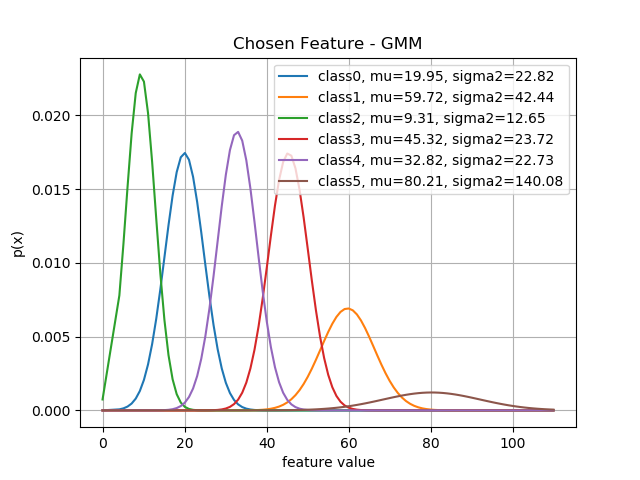
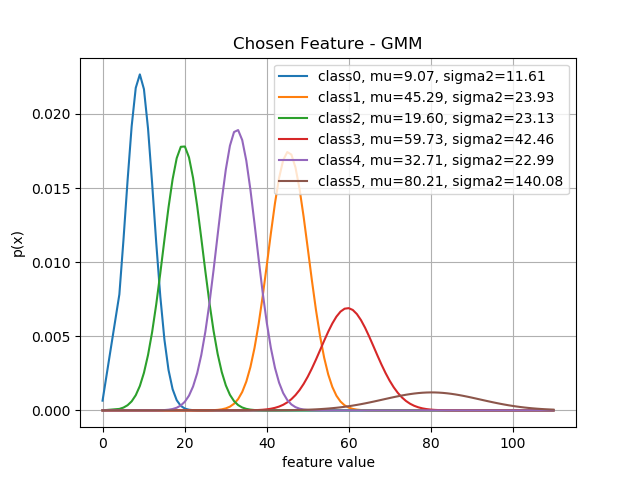
Time: 2019-09-22 12:16:54

diff --git a/4_2_1_randomlySample.py b/4_2_1_randomlySample.py
@@ -6,7 +6,7 @@
 @Github: https://github.com/isLouisHsu
 @E-mail: is.louishsu@foxmail.com
 @Date: 2019-09-20 11:07:51
-@LastEditTime: 2019-09-22 10:13:52
+@LastEditTime: 2019-09-22 12:15:25
 @Update: 
 '''
 import os
@@ -59,7 +59,42 @@ for i in range(len(featLandmarks) + 1):
     subSequence = sequences[index]
     subFeature  = features [index]
 
-    ## 直方图统计，各速度的直方图
+    # ---------------------------------------------------------------------------------
+    ## 统计该速度区间，峰值速度与平均加速度（包含正负）的联合概率分布
+    featIdx0 = 0; featIdx1 = 7
+    n0, bins0 = np.histogram(subFeature[:, featIdx0], bins=3)
+    n1, bins1 = np.histogram(subFeature[:, featIdx1], bins=3)
+    gap0 = bins0[1] - bins0[0]; gap1 = bins1[1] - bins1[0]
+
+    pdf = np.zeros((n0.shape[0], n1.shape[0]))
+    for j in range(n0.shape[0]):
+        for k in range(n1.shape[0]):
+            ### 峰值速度
+            _idx1 = subFeature[:, featIdx0] > bins0[j]
+            _idx2 = subFeature[:, featIdx0] < bins0[j + 1]
+            idx1  = np.bitwise_and(_idx1, _idx2)
+            ### 平均加速度
+            _idx1 = subFeature[:, featIdx1] > bins1[k]
+            _idx2 = subFeature[:, featIdx1] < bins1[k + 1]
+            idx2  = np.bitwise_and(_idx1, _idx2)
+            ### 统计数目
+            idx   = np.bitwise_and(idx1, idx2)
+            pdf[j, k] = idx.sum()
+    pdf = pdf / pdf.sum()
+
+    plt.figure()
+    plt.imshow(pdf, cmap=plt.cm.hot)
+    plt.title("PDF")
+    plt.xlabel("max speed")
+    plt.ylabel("max accelerate")
+    plt.colorbar()
+    # plt.xticks(bins0, rotation=45)
+    # plt.yticks(bins1)
+    plt.savefig("images/4_2_1_pdf_%d.png" % i)
+    # plt.show()
+
+    # ---------------------------------------------------------------------------------
+    ## 直方图统计，运行时长的直方图
     n, bins = np.histogram(subFeature[:, 3], bins=70)
     freq = n / n.sum()                                                      # 速度频率分布
     cumFreq = np.array([np.sum(freq[:i+1]) for i in range(freq.shape[0])])  # 累积频率
@@ -82,6 +117,7 @@ for i in range(len(featLandmarks) + 1):
     subFeature  = subFeature [index]
     p = p[index]
 
+    # ---------------------------------------------------------------------------------
     ## 多次采样
     subChosenSequences = []; subChosenFeatures = []
     for j in range(sampleTime):
@@ -90,35 +126,80 @@ for i in range(len(featLandmarks) + 1):
         subFeature_  = subFeature [index]
         subChosenSequences += [subSequence_]
         subChosenFeatures  += [subFeature_ ]
-    
-    ## 滤除序列和长度之和偏离Tk较多的序列
+    subChosenSequences = np.array(subChosenSequences)
+    subChosenFeatures  = np.array(subChosenFeatures )
 
-    pass
+    ## 滤除序列运行时间长度之和偏离Tk较多的序列
+    lengths = np.array(list(map(lambda x: x[:, 3].sum(), subChosenFeatures)))
+    t = 0.2
+    index = np.bitwise_and(lengths > Tk*(1 - t), lengths < Tk*(1 + t))
+    subChosenSequences = subChosenSequences[index]
+    subChosenFeatures  = subChosenFeatures [index]
+
+    # ---------------------------------------------------------------------------------
+    ## 卡方检验
+    K = []
+    n_combine = subChosenSequences.shape[0]
+    for j in range(n_combine):
+    
+        cnt = np.zeros_like(pdf, dtype=np.int)
+        for  k in range(Nk):
+            _f = subChosenFeatures[j, k]
+            a, b = _f[featIdx0], _f[featIdx1]
+            ia = int((a - bins0[0]) // gap0)
+            ib = int((b - bins1[0]) // gap1)
+            ia = ia - 1 if a == bins0[-1] else ia
+            ib = ib - 1 if b == bins1[-1] else ib
+            cnt[ia, ib] += 1
+        
+        k = ((cnt - Nk * pdf)**2 / ((Nk * pdf)**2 + np.finfo(np.float).eps))
+        K += [k.sum()]
+    K = np.array(K)
+
+    index = np.argsort(K)
+    K = K[index]
+    subChosenSequences = subChosenSequences[index]
+    subChosenFeatures = subChosenFeatures[index]
+    
+    ## 选择卡方值最小的
+    n_seq = subChosenSequences.shape[0]
+    size = n_seq if n_seq < 10 else 10
+    chosenSequences += [subChosenSequences[0: size]]
+    chosenFeatures  += [subChosenFeatures [0: size]]
 
 # ------------------------------------------------------------------------
-## 组合序列
-gap = 10
-combineSequences = []
-for i in range(len(chosenFeatures)):
-    chosenSequence = chosenSequences[i]
-    chosenFeature  = chosenFeatures[i]
-    for j in range(chosenFeature.shape[0]):
-        startIdx = int(chosenFeature[j][4] - chosenFeature[j][3])
-        combineSequence  = chosenSequence[j][startIdx - 1:]
-        combineSequences += [np.r_[np.zeros(gap), combineSequence]]
-combineSequences = np.array(combineSequences)
-lengths = np.array(list(map(lambda x: x.shape[0], combineSequences)))
-# index   = np.argsort(lengths)
-# lengths = lengths[index]; combineSequences = combineSequences[index]
-combineSequences = np.concatenate(combineSequences)
-np.save("output/4_2_2_combineSequences.npy", [combineSequences, lengths, gap])
+for k in range(size):
+    ## 组合序列
+    gap = 10
+    combineSequences = []; combineFeatures = []
+    for i in range(len(chosenFeatures)):
+        chosenSequence = chosenSequences[i][k]
+        chosenFeature  = chosenFeatures [i][k]
+        for j in range(chosenFeature.shape[0]):
+            startIdx = int(chosenFeature[j][4] - chosenFeature[j][3])
+            combineSequence = chosenSequence[j][startIdx - 1:]
+            combineFeature  = chosenFeature[j]
+            combineSequences += [combineSequence]
+            combineFeatures  += [combineFeature ]
 
-fig = plt.figure(figsize=(12, 6))
-plt.title("Output Sequence")
-plt.xlabel("time(s)")
-plt.ylabel("speed(km/h)")
-plt.plot(combineSequences)
-plt.grid()
-plt.savefig("images/4_2_1_output_sequence_cluster%d.png" % n_clusters)
+    ## 根据峰值速度排序
+    combineSequences = np.array(combineSequences)
+    combineFeatures  = np.array(combineFeatures )
+    index = np.argsort(combineFeatures[:, 0])
+    combineSequences = combineSequences[index]
+    combineFeatures  = combineFeatures [index]
+    np.save("output/4_2_2_combineSequences_%d.npy" % k, combineSequences)
+    np.save("output/4_2_2_combineFeatures_%d.npy"  % k, combineFeatures )
 
-plt.show()
+    ## 显示序列
+    combineSequences = list(map(lambda x: np.r_[np.zeros(10), x], combineSequences))
+    combineSequences = np.concatenate(combineSequences)
+    fig = plt.figure(figsize=(12, 6))
+    plt.title("Output Sequence")
+    plt.xlabel("time(s)")
+    plt.ylabel("speed(km/h)")
+    plt.plot(combineSequences)
+    plt.grid()
+    plt.savefig("images/4_2_1_output_sequence_cluster%d_%d.png" % (n_clusters, k))
+
+    # plt.show()

diff --git a/1_preprocessing.py b/1_preprocessing.py
@@ -6,7 +6,7 @@
 @Github: https://github.com/isLouisHsu
 @E-mail: is.louishsu@foxmail.com
 @Date: 2019-09-19 11:01:14
-@LastEditTime: 2019-09-22 09:36:50
+@LastEditTime: 2019-09-22 10:34:21
 @Update: 
 '''
 import os
@@ -102,7 +102,7 @@ def calFeaturesOfSequence(speedSeq, timeSeq, speedThresh=IDLETHRESH, maxIdle=180
     index = np.r_[1, isIdle[1:] - isIdle[:-1]]          # 负跳变(-1)：从怠速起步
     idxStart = np.where(index == -1)[0]                 # 起步时间
     if idxStart.shape[0] == 0: 
-        return np.zeros(15)
+        return np.zeros(16)
     else:
         idxStart = idxStart[0]
 
@@ -141,24 +141,25 @@ def calFeaturesOfSequence(speedSeq, timeSeq, speedThresh=IDLETHRESH, maxIdle=180
 
     feature += [accelerate.max()]                       # 7, 峰值加速度
     feature += [accelerate.min()]                       # 8, 峰值减速度
+    feature += [accelerate.mean()]                      # 9, 平均加速度（包含正负）
 
     temp = accelerate[accelerate > 0.]
     if temp.shape[0] == 0:
-        feature += [0]                                  # 9, 平均加速度
-        feature += [0]                                  # 10, 加速度标准差
+        feature += [0]                                  # 10, 平均加速度
+        feature += [0]                                  # 11, 加速度标准差
     else:
-        feature += [temp.mean()]                        # 9, 平均加速度
-        feature += [temp.std()]                         # 10, 加速度标准差
+        feature += [temp.mean()]                        # 10, 平均加速度
+        feature += [temp.std()]                         # 11, 加速度标准差
         
     temp = accelerate[accelerate < 0.]
     if temp.shape[0] == 0:
-        feature += [0]                                  # 11, 平均减速度
-        feature += [0]                                  # 12, 减速度标准差
+        feature += [0]                                  # 12, 平均减速度
+        feature += [0]                                  # 13, 减速度标准差
     else:
-        feature += [temp.mean()]                        # 11, 平均减速度
-        feature += [temp.std()]                         # 12, 减速度标准差
+        feature += [temp.mean()]                        # 12, 平均减速度
+        feature += [temp.std()]                         # 13, 减速度标准差
         
-    feature += [idxStart / n_sec]                       # 13, 怠速时间比(%)
+    feature += [idxStart / n_sec]                       # 14, 怠速时间比(%)
     feature += [n_dist   / n_sec]                       # -1, 平均运行速度(m/s)
 
     # --------------------------------------------

diff --git a/params.py b/params.py
@@ -6,7 +6,7 @@
 @Github: https://github.com/isLouisHsu
 @E-mail: is.louishsu@foxmail.com
 @Date: 2019-09-20 21:22:41
-@LastEditTime: 2019-09-22 10:02:49
+@LastEditTime: 2019-09-22 11:43:17
 @Update: 
 '''
 # step 1
@@ -20,12 +20,12 @@ MINRUNTIME = 4          # s，运行时间小于该值的序列被删除
 
 # step 2
 n_components_default = 6
-n_clusters_default   = 8
+n_clusters_default   = 5
 
 # step 3
 deleteClassIndex = [2, 4]
 
 # step 4
-featLandmarks = [20, 50]
-totalTime = 1200.
+featLandmarks = [25, 55]
+totalTime = 1250.
 sampleTime = 1000
